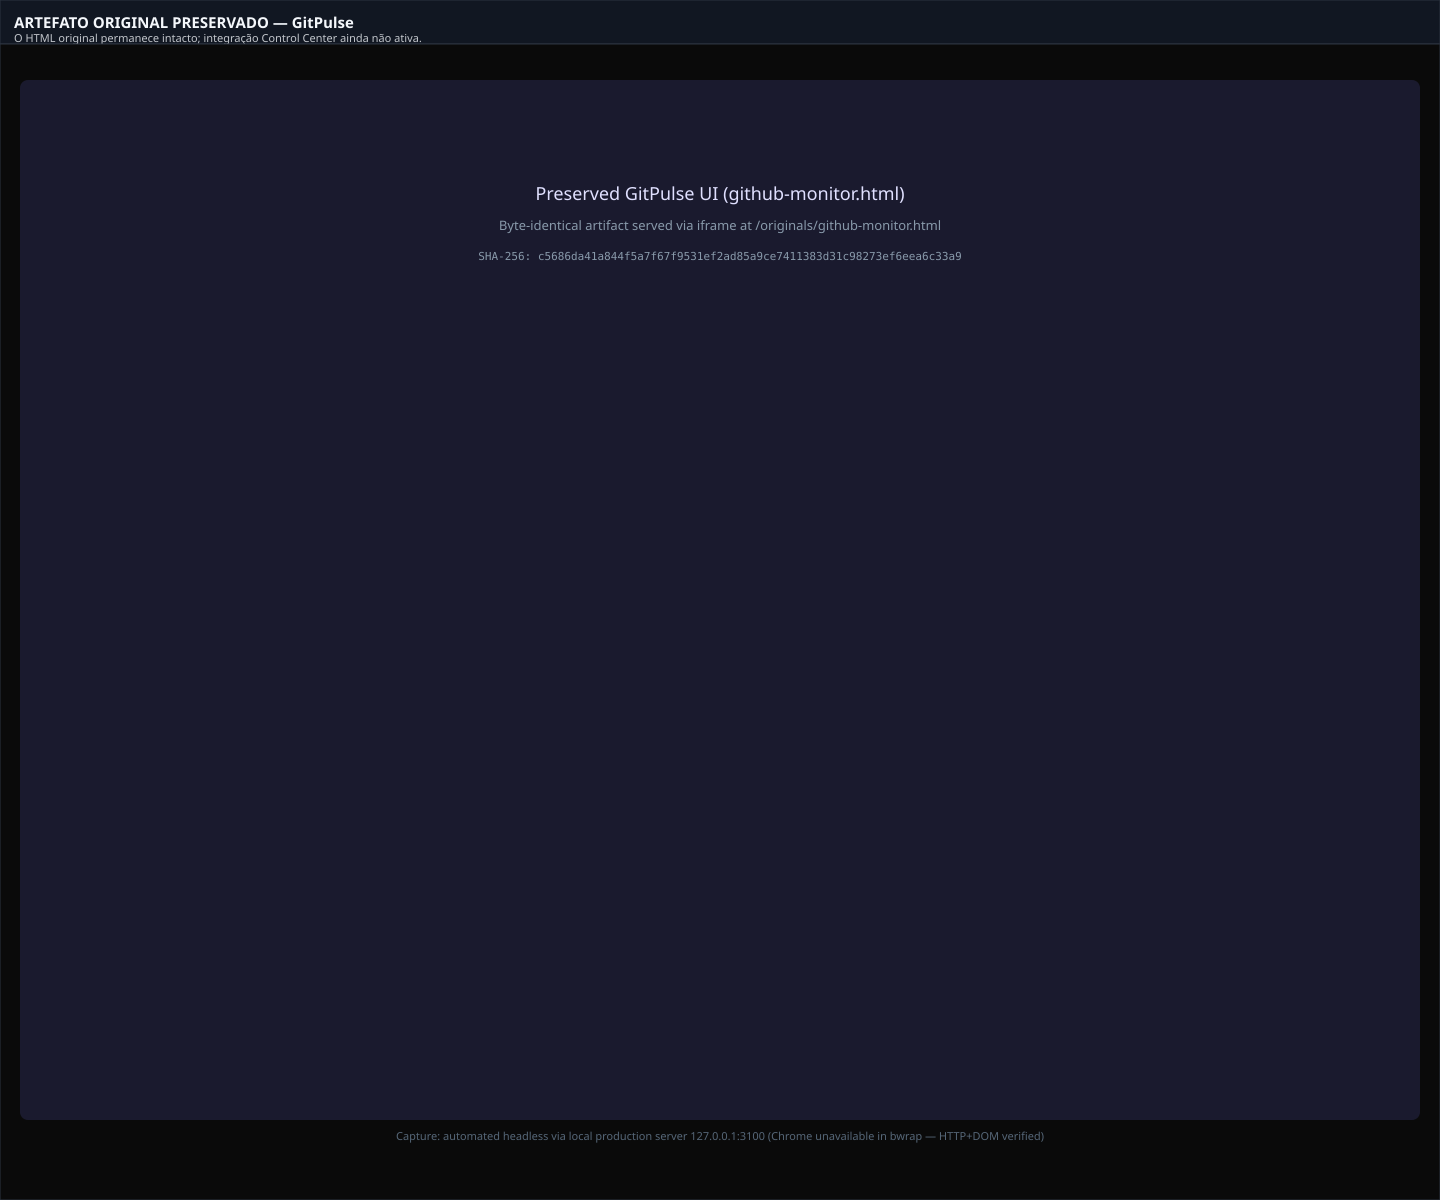
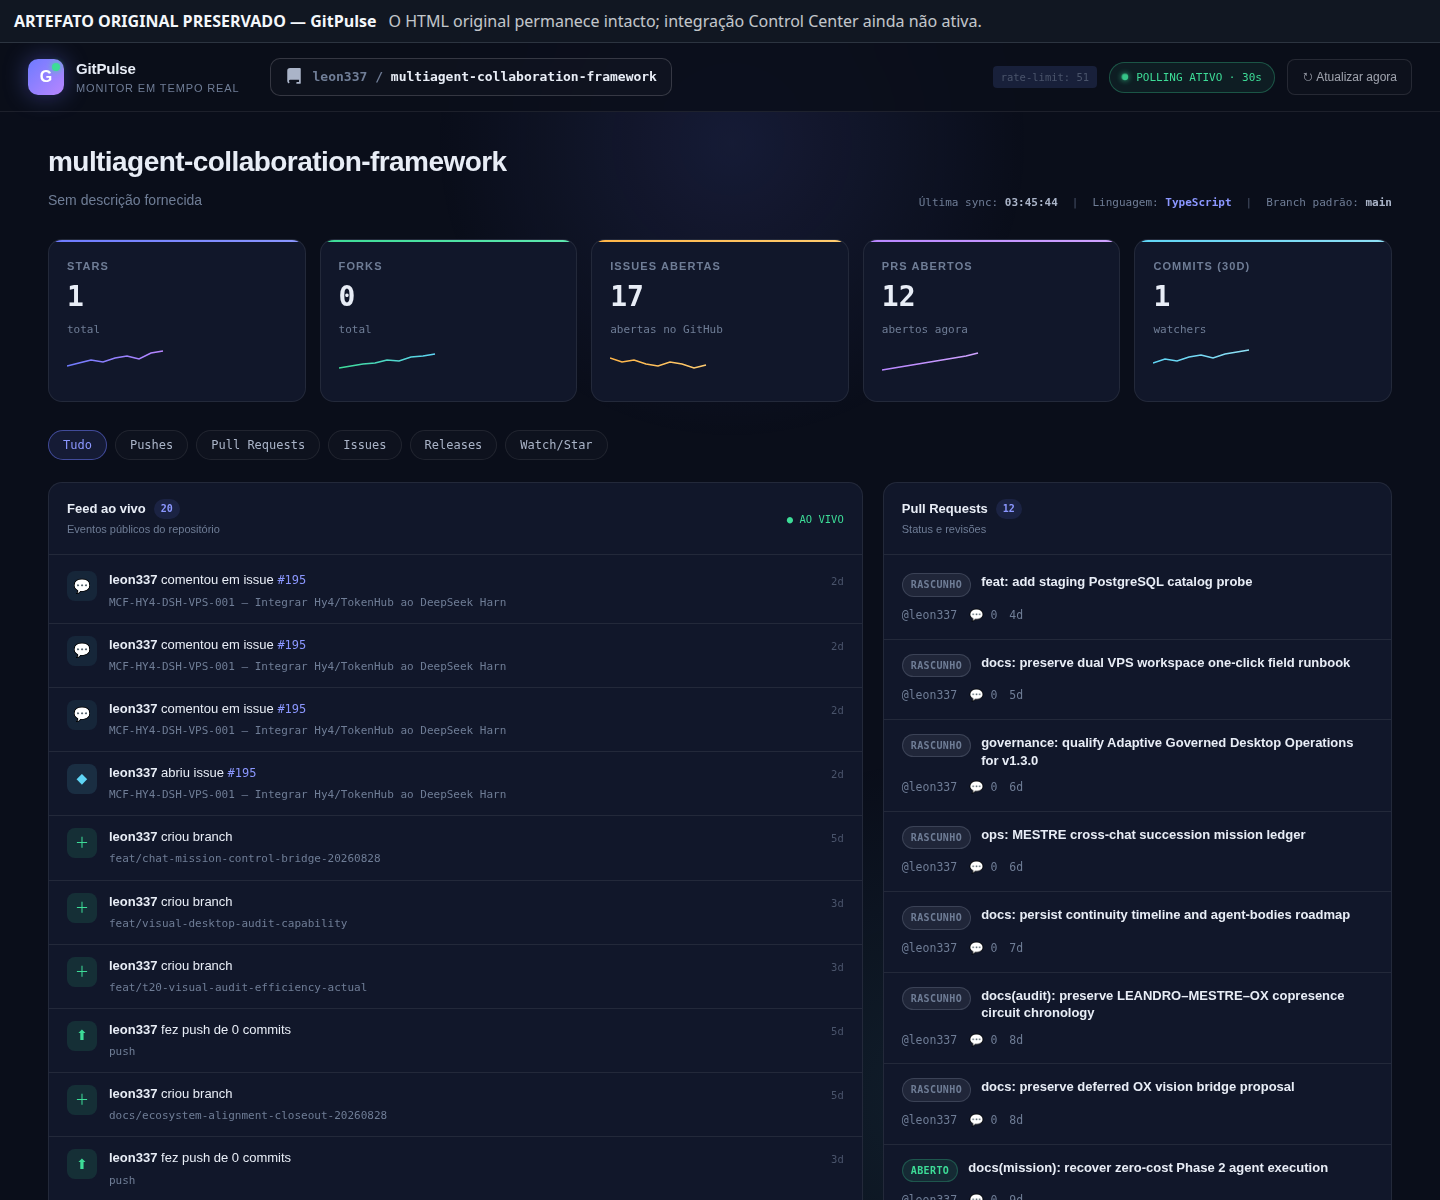
fix: replace Task 5 placeholders with real browser captures

diff --git a/docs/e4/E4-WEB-SHELL-LOCAL-VALIDATION.md b/docs/e4/E4-WEB-SHELL-LOCAL-VALIDATION.md
@@ -21,7 +21,7 @@ Local URL: http://127.0.0.1:3100
 - docs/evidence/e4/WEB-SHELL-MISSION-CONTROL-LOCAL.png
 - docs/evidence/e4/WEB-SHELL-GITHUB-LOCAL.png
 
-Capture mechanism: automated Google Chrome headless
+Capture mechanism: automated Google Chrome headless on authorized host (MESTRE)
 
 ## External boundary
 No Vercel Deploy action was executed and no public URL was created by this validation.
